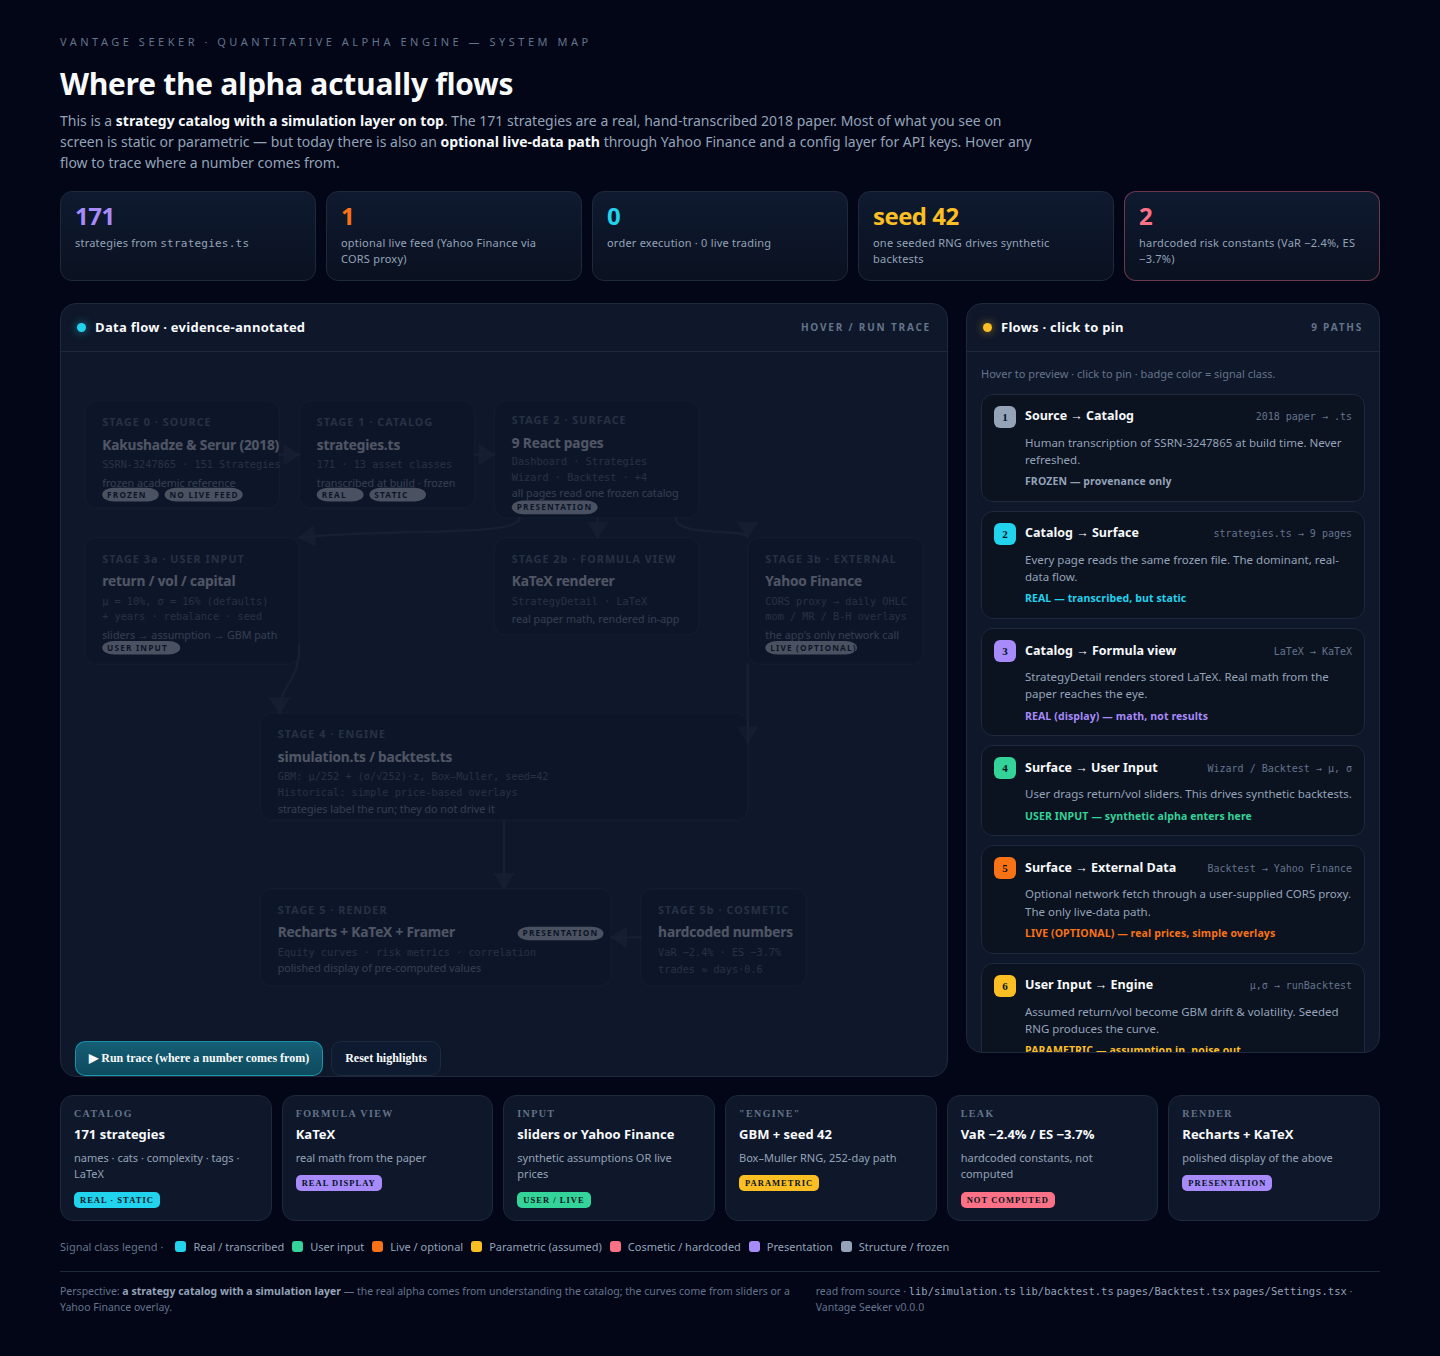
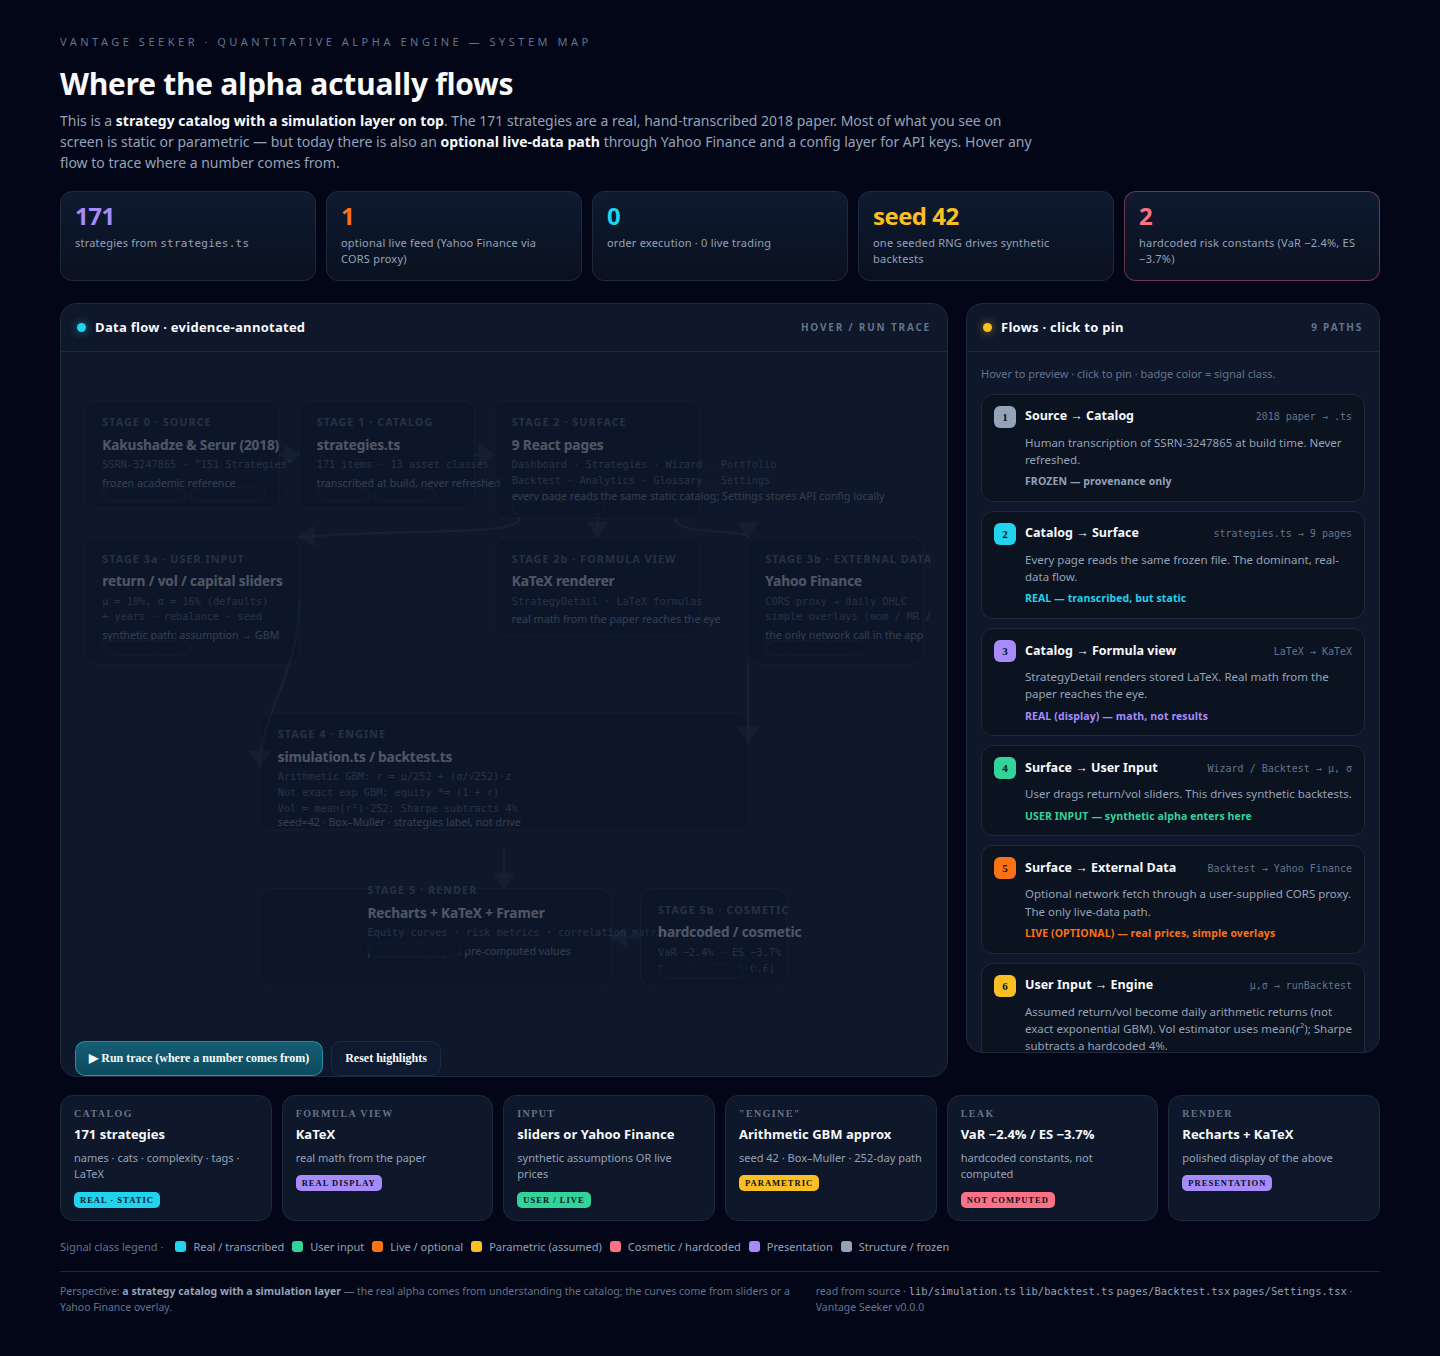
docs: make system map GBM explanation match actual implementation
- Clarify that runBacktest uses an arithmetic GBM approximation, not exact exp GBM
- Note vol estimator uses mean(r²) without mean subtraction
- Note Sharpe subtracts a hardcoded 4% risk-free rate
- Update cosmetic node to show trades = floor(days * 0.6)
- Re-render system-map.png and update /tmp copy

diff --git a/docs/system-map.html b/docs/system-map.html
@@ -211,12 +211,13 @@
 
           <!-- NODE: 4 ENGINE -->
           <g class="node" data-node="n4">
-            <rect x="194" y="360" width="500" height="110" rx="12"/>
+            <rect x="194" y="360" width="500" height="120" rx="12"/>
             <text class="idx" x="212" y="386">STAGE 4 · ENGINE</text>
             <text class="nm" x="212" y="410">simulation.ts / backtest.ts</text>
-            <text class="meta" x="212" y="429">GBM: μ/252 + (σ/√252)·z, Box–Muller, seed=42</text>
-            <text class="meta" x="212" y="445">Historical: simple price-based overlays</text>
-            <text class="note" x="212" y="462">strategies label the run; they do not drive it</text>
+            <text class="meta" x="212" y="429">Arithmetic GBM: r = μ/252 + (σ/√252)·z</text>
+            <text class="meta" x="212" y="445">Not exact exp GBM; equity *= (1 + r)</text>
+            <text class="meta" x="212" y="461">Vol = mean(r²)·252; Sharpe subtracts 4%</text>
+            <text class="note" x="212" y="476">seed=42 · Box–Muller · strategies label, not drive</text>
           </g>
 
           <!-- NODE: 5 RENDER -->
@@ -233,9 +234,9 @@
           <g class="node" data-node="n8">
             <rect x="584" y="540" width="150" height="100" rx="12"/>
             <text class="idx" x="602" y="566">STAGE 5b · COSMETIC</text>
-            <text class="nm" x="602" y="590">hardcoded numbers</text>
+            <text class="nm" x="602" y="590">hardcoded / cosmetic</text>
             <text class="meta" x="602" y="609">VaR −2.4% · ES −3.7%</text>
-            <text class="meta" x="602" y="625">trades ≈ days·0.6</text>
+            <text class="meta" x="602" y="625">trades = ⌊days·0.6⌋</text>
             <rect class="chip" x="602" y="618" width="88" height="14"/><text class="chip" x="607" y="628" style="fill:#04121b">NOT COMPUTED</text>
           </g>
         </svg>
@@ -284,7 +285,7 @@
 
         <div class="flrow" data-flow="f4" style="--fcolor:var(--param)">
           <div class="top"><span class="badge">6</span><span class="ttl">User Input → Engine</span><span class="from">μ,σ → runBacktest</span></div>
-          <div class="desc">Assumed return/vol become GBM drift &amp; volatility. Seeded RNG produces the curve.</div>
+          <div class="desc">Assumed return/vol become daily arithmetic returns (not exact exponential GBM). Vol estimator uses mean(r²); Sharpe subtracts a hardcoded 4%.</div>
           <div class="truth" style="color:var(--param)">PARAMETRIC — assumption in, noise out</div>
         </div>
 
@@ -302,7 +303,7 @@
 
         <div class="flrow" data-flow="f6" style="--fcolor:var(--cosmetic)">
           <div class="top"><span class="badge">9</span><span class="ttl">Cosmetic → Render</span><span class="from">literals → Analytics</span></div>
-          <div class="desc">VaR / ES are hardcoded strings; correlation matrix is random noise. Settings API config is stored, not executed.</div>
+          <div class="desc">VaR / ES / trades are cosmetic. Correlation matrix is random noise, not symmetric. Settings API config is stored, not executed.</div>
           <div class="truth" style="color:var(--cosmetic)">COSMETIC / CONFIG — the leak</div>
         </div>
       </div>
@@ -314,7 +315,7 @@
     <div class="stage"><div class="s">Catalog</div><div class="t">171 strategies</div><div class="d">names · cats · complexity · tags · LaTeX</div><span class="c" style="background:var(--real)">REAL · STATIC</span></div>
     <div class="stage"><div class="s">Formula view</div><div class="t">KaTeX</div><div class="d">real math from the paper</div><span class="c" style="background:var(--present)">REAL DISPLAY</span></div>
     <div class="stage"><div class="s">Input</div><div class="t">sliders or Yahoo Finance</div><div class="d">synthetic assumptions OR live prices</div><span class="c" style="background:var(--input)">USER / LIVE</span></div>
-    <div class="stage"><div class="s">"Engine"</div><div class="t">GBM + seed 42</div><div class="d">Box–Muller RNG, 252-day path</div><span class="c" style="background:var(--param)">PARAMETRIC</span></div>
+    <div class="stage"><div class="s">"Engine"</div><div class="t">Arithmetic GBM approx</div><div class="d">seed 42 · Box–Muller · 252-day path</div><span class="c" style="background:var(--param)">PARAMETRIC</span></div>
     <div class="stage"><div class="s">Leak</div><div class="t">VaR −2.4% / ES −3.7%</div><div class="d">hardcoded constants, not computed</div><span class="c" style="background:var(--cosmetic)">NOT COMPUTED</span></div>
     <div class="stage"><div class="s">Render</div><div class="t">Recharts + KaTeX</div><div class="d">polished display of the above</div><span class="c" style="background:var(--present)">PRESENTATION</span></div>
   </div>
